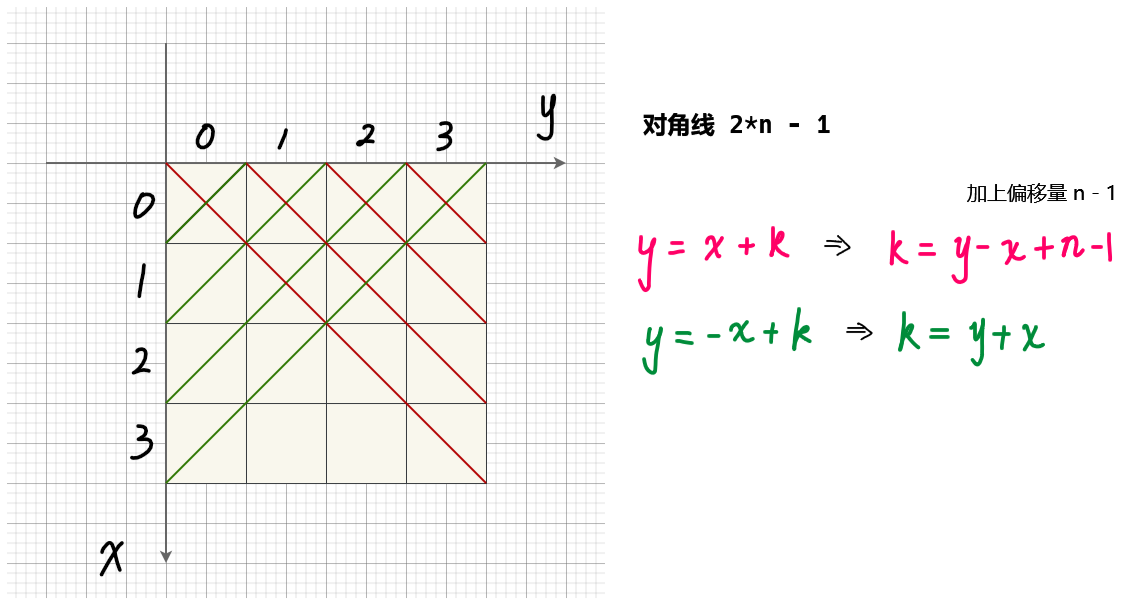
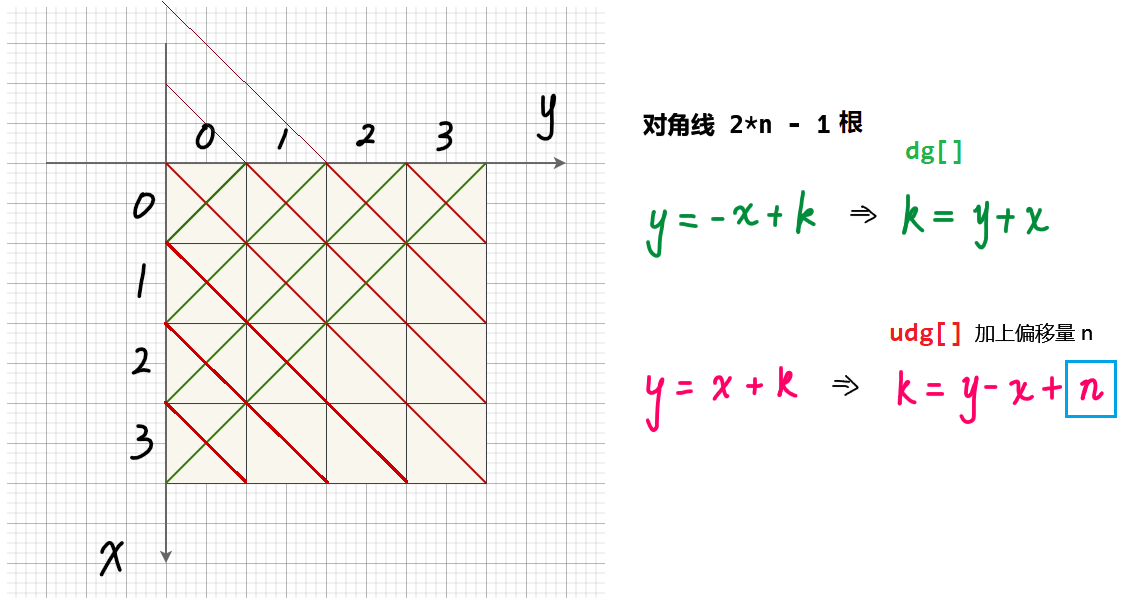
N皇后，DFS＋回溯

diff --git a/Solutions_0001-1000/0051_N-Queens_N 皇后(Hard)/cpp_1_Backtracking.cpp b/Solutions_0001-1000/0051_N-Queens_N 皇后(Hard)/cpp_1_Backtracking.cpp
@@ -1,39 +1,31 @@
-#include <iostream>
-#include <vector>
-
-using namespace std;
-
 class Solution {
 public:
-    int n;
-    vector<bool> col, dg, udg;
-    vector<vector<string>> ans;
     vector<string> path;
+    vector<vector<string>> res;
+    vector<bool> col, dg, udg;
 
-    vector<vector<string>> solveNQueens(int _n) {
-        n = _n;
-        col = vector<bool>(n);
-        dg = udg = vector<bool>(n * 2);
-
-        path = vector<string>(n, string(n, '.'));
-        dfs(0);
-        return ans;
-    }
-
-    void dfs(int u) {
-        if (u == n) {
-            ans.push_back(path);
+    void backtracking(int r, int& n) {
+        if (r == n) {
+            res.push_back(path);
             return;
         }
-
+        // 枚举第 r 行皇后可以放到哪几列位置，本质枚举的是列
         for (int i = 0; i < n; i++) {
-            if (!col[i] && !dg[u - i + n] && !udg[u + i]) {
-                col[i] = dg[u - i + n] = udg[u + i] = true;
-                path[u][i] = 'Q';
-                dfs(u + 1);
-                path[u][i] = '.';
-                col[i] = dg[u - i + n] = udg[u + i] = false;
+            if (!col[i] && !dg[i + r] && !udg[i - r + n]) {
+                col[i] = dg[i + r] = udg[i - r + n] = true;
+                path[r][i] = 'Q';
+                backtracking(r + 1, n);
+                col[i] = dg[i + r] = udg[i - r + n] = false;
+                path[r][i] = '.';
             }
         }
+    }
+
+    vector<vector<string>> solveNQueens(int n) {
+        col = vector<bool>(n);
+        dg = udg = vector<bool>(n * 2);
+        path = vector<string>(n, string(n, '.'));
+        backtracking(0, n);
+        return res;
     }
 };

diff --git a/Solutions_0001-1000/0051_N-Queens_N 皇后(Hard)/0_Solution.md b/Solutions_0001-1000/0051_N-Queens_N 皇后(Hard)/0_Solution.md
@@ -1,10 +1,6 @@
 # 51. N-Queens_N 皇后(Hard)
 
-
-
-##### (按行枚举) $O(n!)$
-
-解释说明
+## 解法一：(按行枚举) $O(n!)$
 
 对角线 `dg[u+i]`，反对角线 `udg[n−u+i]` 中的下标 `u + i` 和 `u - i + (n - 1)` 表示的是截距。
 
@@ -13,7 +9,55 @@
 （1）反对角线 `y = x + b`, 截距 `b = y − x`，因为我们要把 `b` 当做数组下标，所以 `b` 不能是负的，所以我们 `+ (n - 1)`，保证是结果是正的
 （2）而对角线 `y = −x + b`, 截距是 `b = y + x`，这里截距一定是正的，所以不需要加偏移量。
 
+## 解法二：DFS＋回溯
 
+- 递归函数参数
+定义全局变量二维数组`res`来记录最终结果。
+参数 `n` 是棋盘的大小，然后用 `row` 来记录当前遍历到棋盘的第几层了。
+```cpp
+vector<vector<string>> res;
+void backtracking(int n, int row, vector<string>& path) {}
+```
 
+- 递归终止条件
+当递归到棋盘最底层（也就是叶子节点）的时候，就可以收集结果并返回了。
+```cpp
+if (row == n) {
+    result.push_back(path);
+    return;
+}
+```
 
+- 单层搜索的逻辑
+```cpp
+for (int col = 0; col < n; col++) {
+    if (isValid()) {   // 验证合法就可以放
+        path[row][col] = 'Q';           // 放置皇后
+        backtracking(row + 1, n);
+        path[row][col] = '.';           // 回溯，撤销皇后
+    }
+}
+```
 
+- 验证棋盘是否合法
+按照如下标准去重：
+1. 不能同行
+2. 不能同列
+3. 不能同斜线 （45度和135度角）
+
+```cpp
+for (int i = 0; i < n; i++) {
+    if (!col[i] && !dg[i + r] && !udg[i - r + n]) {
+        col[i] = dg[i + r] = udg[i - r + n] = true;
+        path[r][i] = 'Q';
+        backtracking(r + 1, n);
+        col[i] = dg[i + r] = udg[i - r + n] = false;
+        path[r][i] = '.';
+    }
+}
+```
+
+45°对角线和 135°对角线总共有 $2n - 1$ 根。
+如果枚举某行的列，`i` 为枚举的值：
+- 绿色的45°对角线函数为 $y = -x + k$，截距为 $k = y + x$；`dg[i + r]`
+- 红色的135°对角线函数为 $y = x + k$，截距为 $k = y - x$，可能出现负数，需要加上偏移量 $n$；`udg[i - r + n]`

diff --git a/Section01_Topics/10_知识点：回溯.md b/Section01_Topics/10_知识点：回溯.md
@@ -89,3 +89,8 @@ for (int i = start; i <= n + 1 - (k - path.size()); i++)
 
 - 46，全排列＋DFS＋回溯
 - 47，全排列＋DFS＋回溯，树层去重
+
+## 棋盘问题
+
+- 51，N皇后，DFS＋回溯
+
